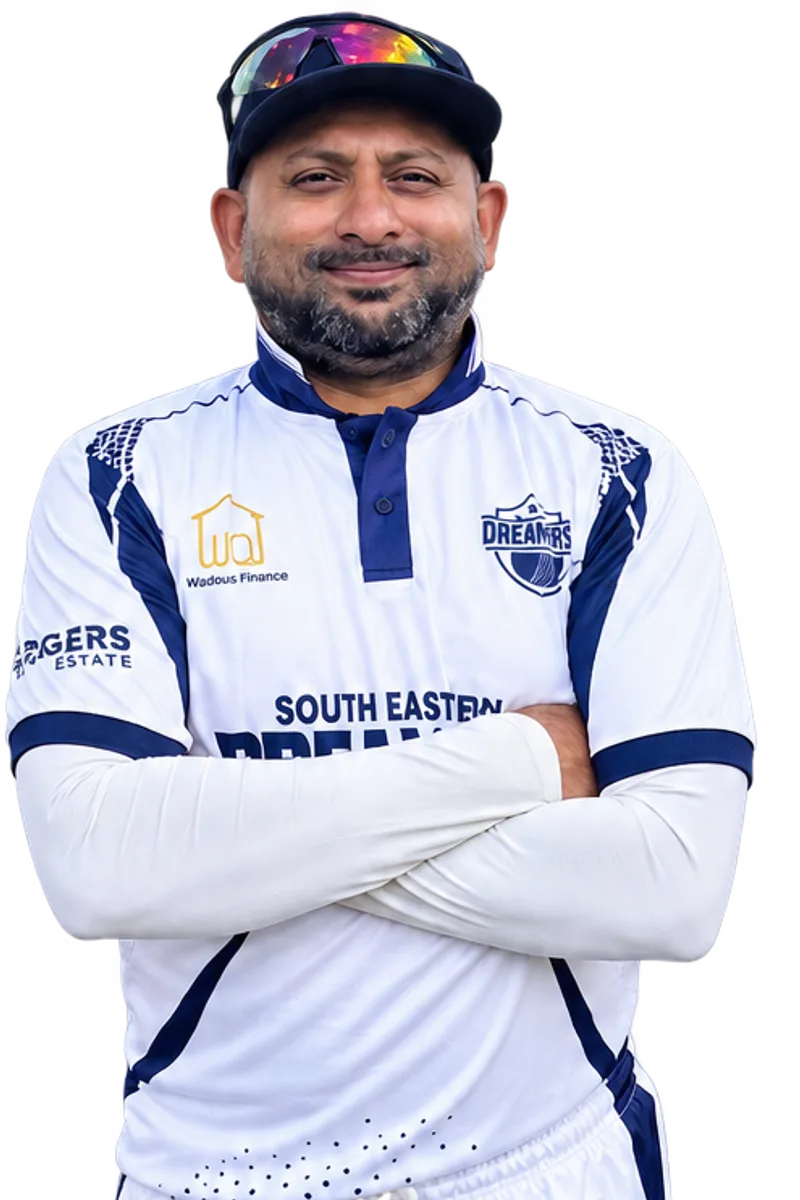
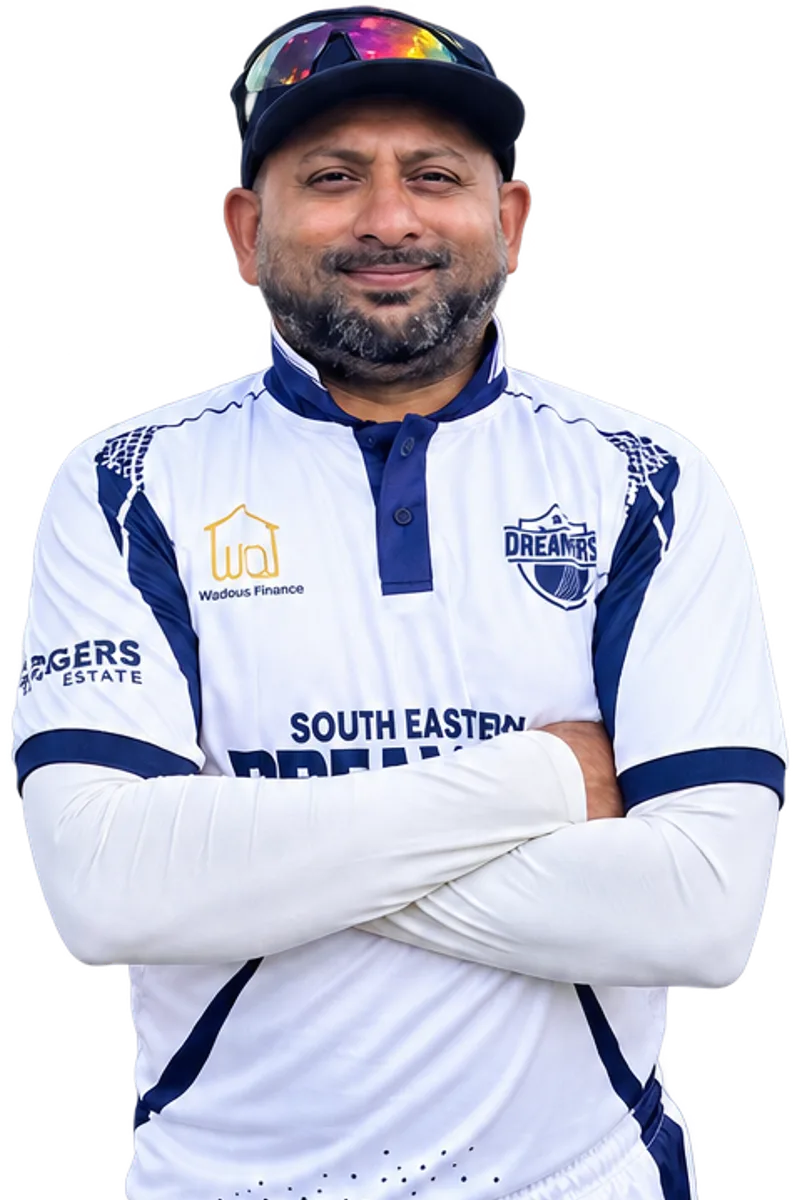
Replace Malith Kanahara's photo and mark him a LOC 2 captain
The new photo is a head-and-torso crop, 0.66 against the card's 0.67, so
it frames like the rest of the squad rather than taking the full-length
branch his previous one needed.

LOC 2 now has two captains, Malith and Yasuntha Gamalath, confirmed with
the club rather than assumed — the obvious reading was that one replaced
the other. They sort together at the head of the squad, alphabetically
between them, ahead of Wathsara Daluwatta as vice-captain.

Changed region(s): [[0.0, 0.0, 1.0, 1.0], [0.0312, 0.4008, 0.0625, 0.4933], [0.875, 0.7092, 0.9062, 0.74]]

diff --git a/src/lib/site.ts b/src/lib/site.ts
@@ -51,6 +51,9 @@ export interface RosterPlayer {
    * It hangs off the player rather than off the team because nobody in the
    * roster leads one side and plays in another. The day someone does, this has
    * to become a per-team map — they would otherwise be marked on both cards.
+   *
+   * More than one captain per side is allowed and is deliberate: LOC 2 has two.
+   * They sort together at the head of the squad, alphabetically between them.
    */
   captaincy?: 'captain' | 'vice-captain';
   /** play.cricket.com.au public profile. Not the API's appearance id. */
